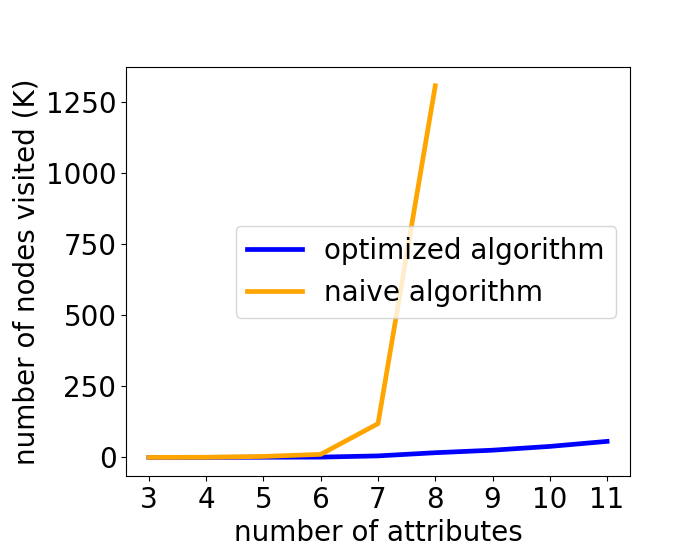
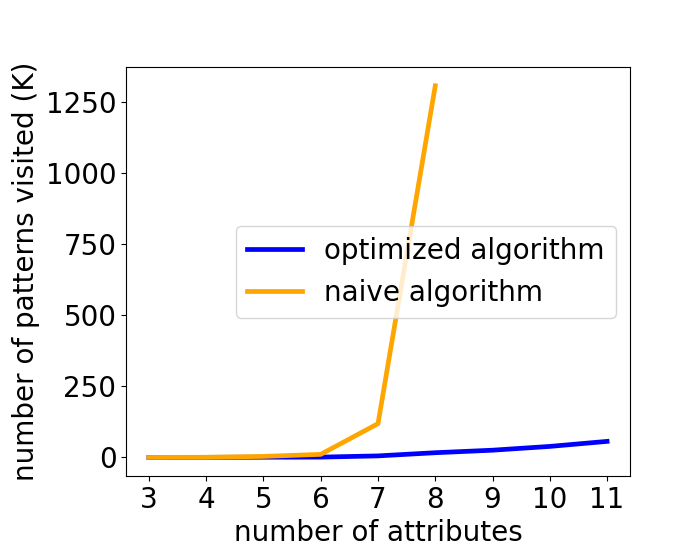
low acc compas, num att

Changed region(s): [[0.0, 0.1214, 0.06, 0.8804]]

diff --git a/Coding/Experiments/AccuracyFairness/CompasData/num_attributes_1_20210201.py b/Coding/Experiments/AccuracyFairness/CompasData/num_attributes_1_20210201.py
@@ -8,7 +8,7 @@ x axis: the number of attributes, from 2 to 13.
 
 other parameters:
 RecidivismData_att_classified.txt: 6889 rows
-threshold of cardinality Thc = 30
+size threshold Thc = 30
 threshold of minority group accuracy: overall acc - 20
 """
 
@@ -224,7 +224,7 @@ fig, ax = plt.subplots()
 plt.plot(x_new, num_calculation1, label="optimized algorithm", color='blue', linewidth = 3.4)
 plt.plot(x_naive, num_calculation2, label="naive algorithm", color='orange', linewidth = 3.4)
 plt.xlabel('number of attributes')
-plt.ylabel('number of nodes visited (K)')
+plt.ylabel('number of patterns visited (K)')
 ax.yaxis.set_major_formatter(FuncFormatter(thousands_formatter))
 
 

diff --git a/Coding/Experiments/AccuracyFairness/CompasData/num_attributes_2_20210629.py b/Coding/Experiments/AccuracyFairness/CompasData/num_attributes_2_20210629.py
@@ -8,7 +8,7 @@ x axis: the number of attributes, from 2 to 13.
 
 other parameters:
 RecidivismData_att_classified.txt: 6889 rows
-threshold of cardinality Thc = 30
+size threshold Thc = 30
 threshold of minority group accuracy: overall acc - 20
 """
 
@@ -233,7 +233,7 @@ fig, ax = plt.subplots()
 plt.plot(x_new, num_calculation1, label="optimized algorithm", color='blue', linewidth = 3.4)
 plt.plot(x_naive, num_calculation2, label="naive algorithm", color='orange', linewidth = 3.4)
 plt.xlabel('number of attributes')
-plt.ylabel('number of nodes visited (K)')
+plt.ylabel('number of patterns visited (K)')
 ax.yaxis.set_major_formatter(FuncFormatter(thousands_formatter))
 
 

diff --git a/Coding/Experiments/AccuracyFairness/CompasData/num_attributes.py b/Coding/Experiments/AccuracyFairness/CompasData/num_attributes.py
@@ -8,7 +8,7 @@ x axis: the number of attributes, from 2 to 13.
 
 other parameters:
 RecidivismData_att_classified.txt: 6889 rows
-threshold of cardinality Thc = 30
+size threshold Thc = 30
 threshold of minority group accuracy: overall acc - 20
 """
 
